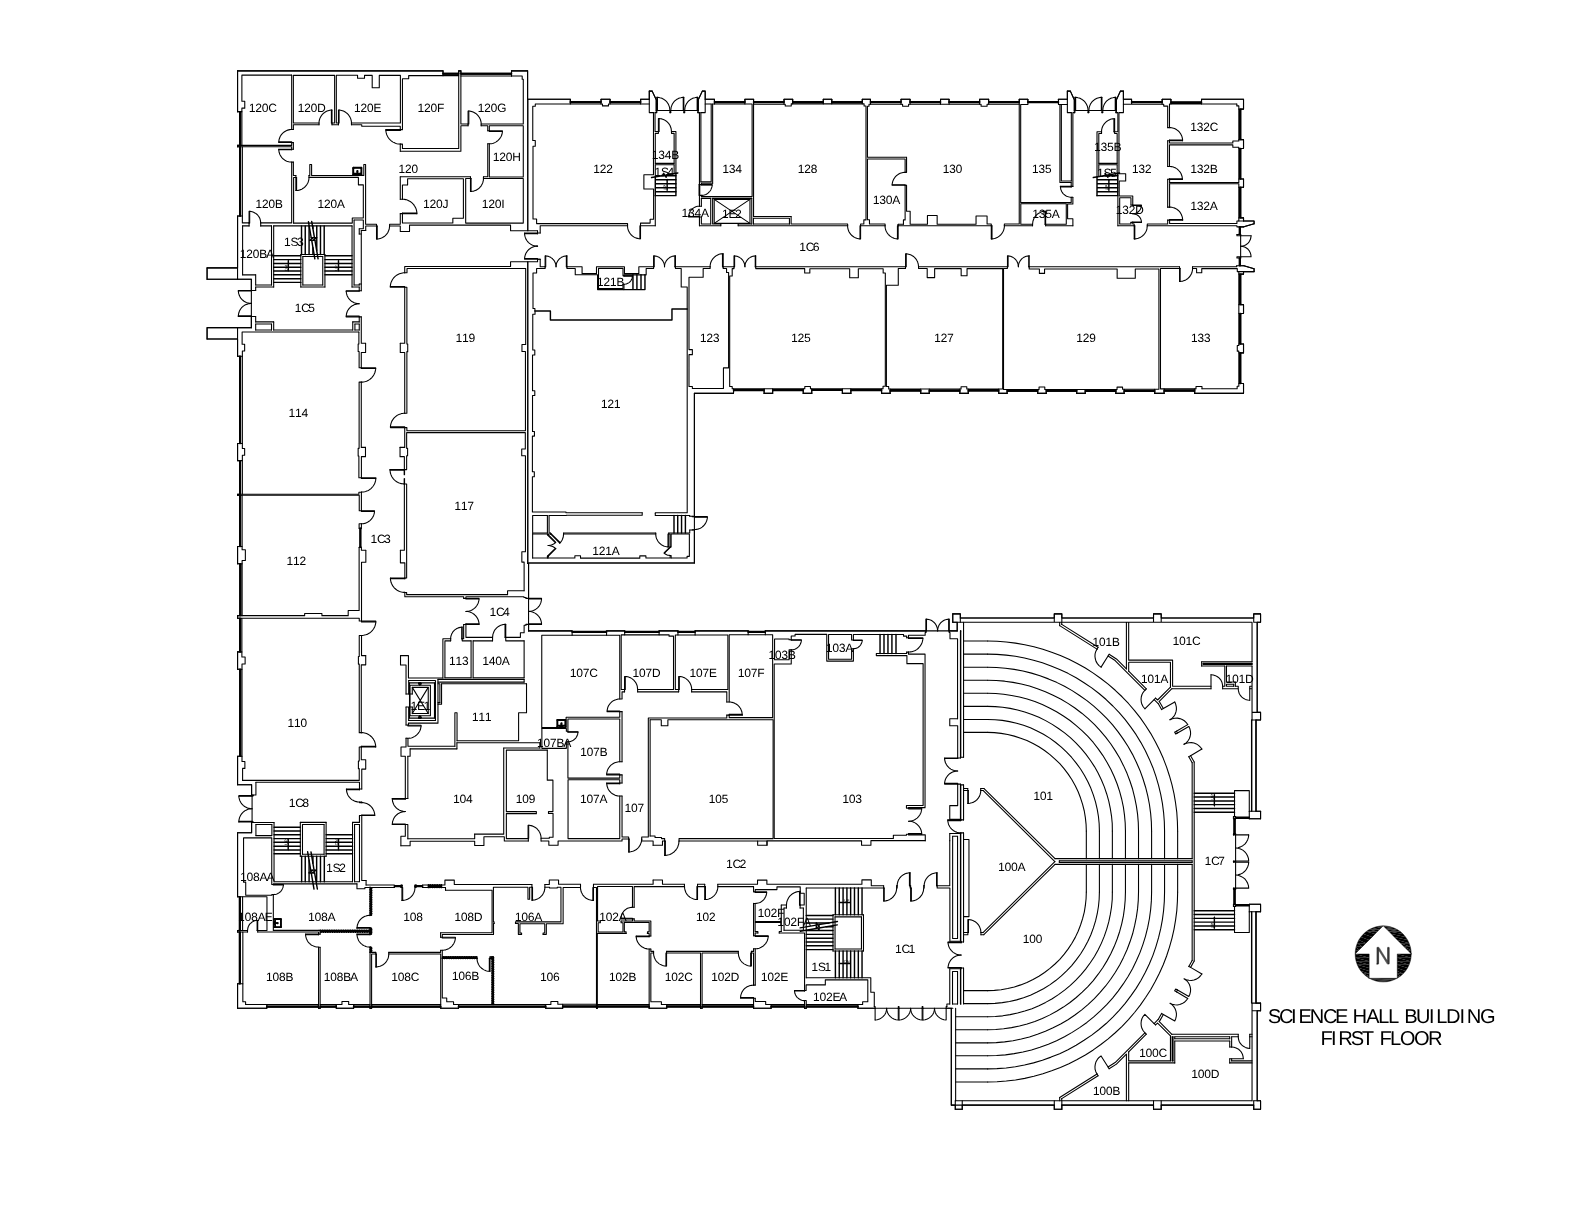
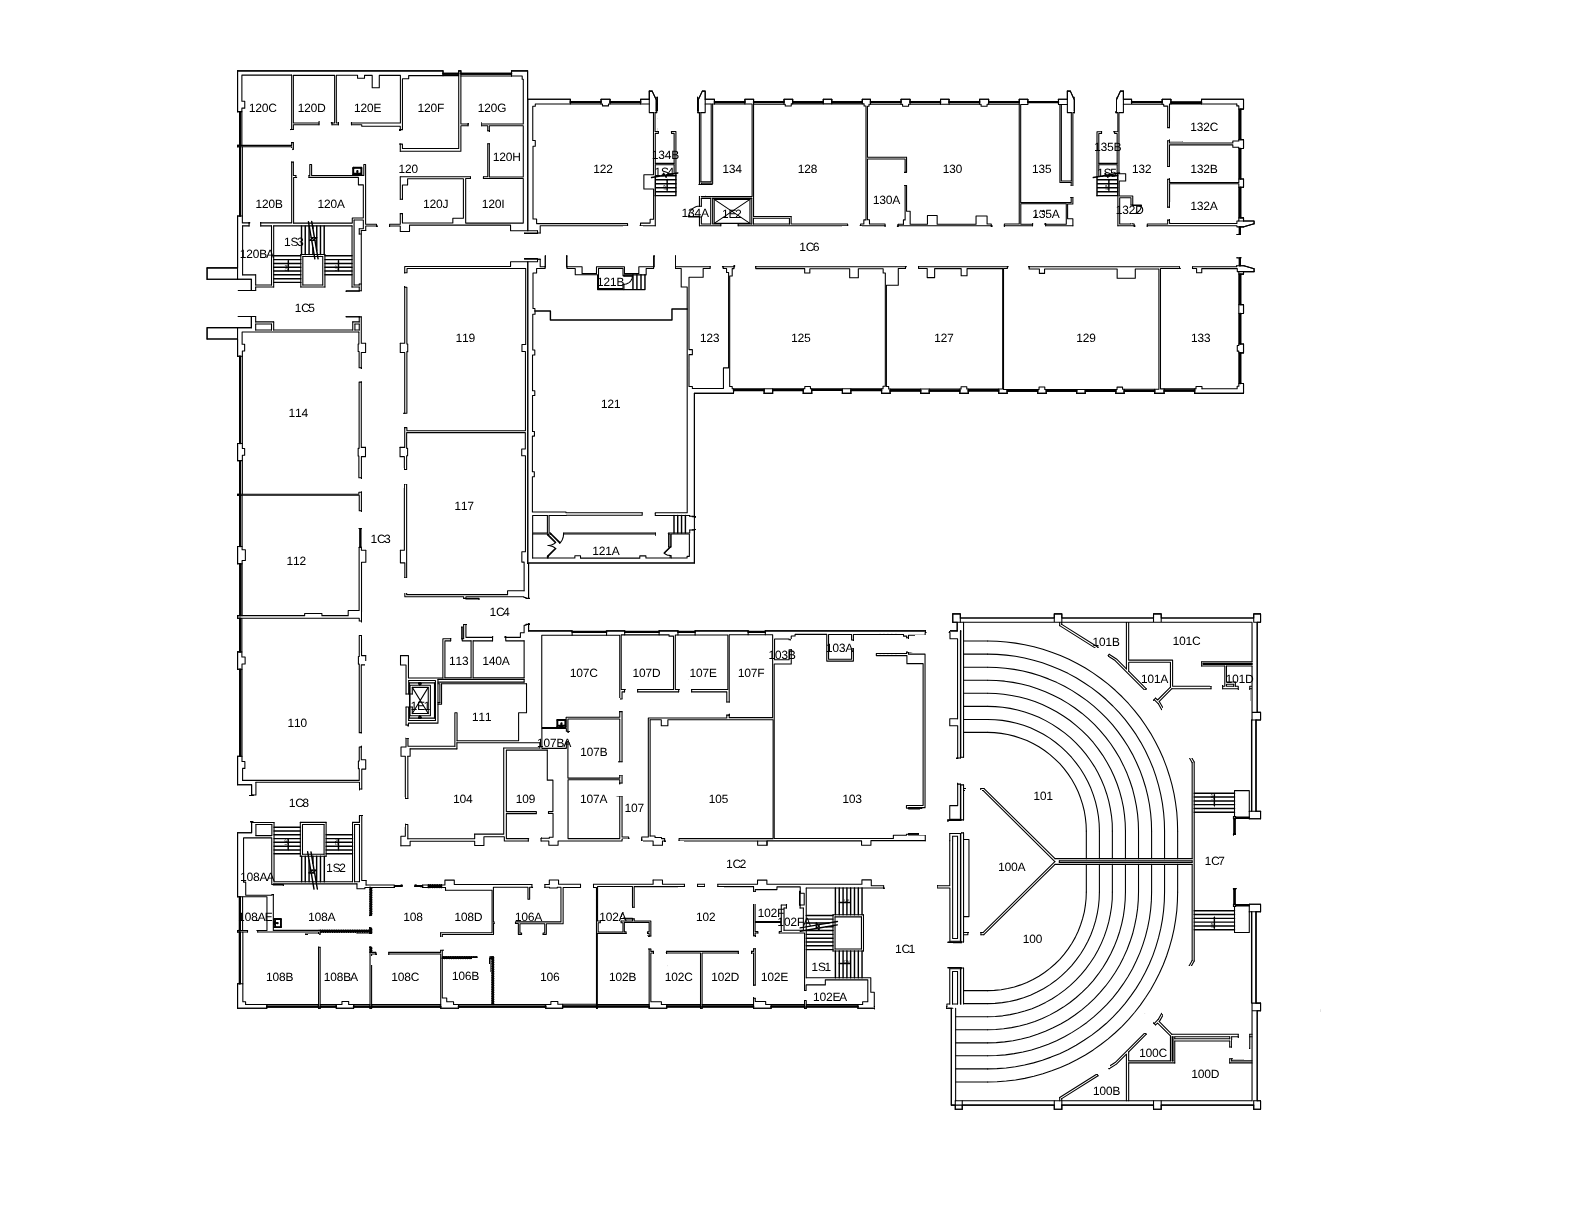
removed all the doors in sh_1 MANUALLY and now can go to ANY room in the buidlilng

diff --git a/components/Screens/MainPage/Map/Locations/BuildingLayout/SH.jsx b/components/Screens/MainPage/Map/Locations/BuildingLayout/SH.jsx
@@ -40,36 +40,36 @@ export default SH = [
                 'SH_B27': {x: 0, y: 0},
             },
             1: {
-                'SH_100': {x: 918, y: 865},
-                'SH_101': {x: 942, y: 769},
-                'SH_102': {x: 702, y: 874},
-                'SH_103': {x: 926, y: 820},
-                'SH_105': {x: 683, y: 855}, //683,855
-                'SH_106': {x: 585, y: 878}, //585,878
-                'SH_107': {x: 644, y: 855}, //644,855
-                'SH_108': {x: 410, y: 876}, //410,876
-                'SH_109': {x: 535, y: 848}, // 535,848
-                'SH_110': {x: 376, y: 728}, //376,728
-                'SH_111': {x: 396, y: 728}, //396,728
-                'SH_112': {x: 381, y: 528}, //381,528
-                'SH_113': {x: 445, y: 620}, //445,620
-                'SH_114': {x: 376, y: 390}, //376,390
-                'SH_117': {x: 395, y: 492}, //395,492
-                'SH_119': {x: 390, y: 271}, //390,271
-                'SH_120': {x: 393, y:243}, //393,243
-                // there's door frames
-                'SH_121': {x: 556, y: 248}, //556,248
-                'SH_122': {x: 620, y: 236}, //620,236
-                'SH_123': {x: 705, y: 250}, //705,250
-                'SH_125': {x: 747, y: 245}, //747,245
-                'SH_127': {x: 928, y: 257}, //928,257
-                'SH_128': {x: 841, y: 239}, //841,239
-                'SH_129': {x: 1017, y: 248}, //1017,248
-                'SH_130': {x: 1012, y: 237}, //1012,237
-                'SH_132': {x: 1154, y: 244}, //1154,244
-                'SH_133': {x: 1187, y: 254}, //1187,254
-                'SH_134': {x: 688, y: 187}, //688,187
-                'SH_135': {x: 1083, y: 195}, //1083,195
+                /* adjusted by removing all the damn doors on sh_1 */
+                'SH_100': {x: 977, y: 954}, //977,954
+                'SH_101': {x: 974, y: 775}, //974,775
+                'SH_102': {x: 700, y: 899}, //700,899
+                'SH_103': {x: 900, y: 818}, //900,818
+                'SH_105': {x: 672, y: 821}, //672,821
+                'SH_106': {x: 582, y: 902}, //582,902
+                'SH_107': {x: 635, y: 824}, //635,824
+                'SH_108': {x: 409, y: 899}, //409,899
+                'SH_109': {x: 536, y: 825}, //536,825
+                'SH_110': {x: 339, y: 688}, //339,688
+                'SH_111': {x: 424, y: 736}, //424,736
+                'SH_112': {x: 341, y: 519}, //341,519
+                'SH_113': {x: 458, y: 648}, //458,648
+                'SH_114': {x: 337, y: 414}, //337,414
+                'SH_117': {x: 430, y: 525}, //430,525
+                'SH_119': {x: 427, y: 354}, //427,354
+                'SH_120': {x: 385, y:210}, //385,210
+                //'SH_121': {x: 556, y: 248},  not allowed to go in
+                'SH_122': {x: 631, y: 207}, //631,207
+                'SH_123': {x: 715, y: 284}, //715,284
+                'SH_125': {x: 744, y: 283}, //744,283
+                'SH_127': {x: 912, y: 283}, //912,283
+                'SH_128': {x: 852, y: 207}, //852,207
+                'SH_129': {x: 1020, y: 285}, //1020,285
+                'SH_130': {x: 999, y: 211}, //999,211
+                'SH_132': {x: 1140, y: 220}, //1140,220
+                'SH_133': {x: 1188, y: 280}, //1188,280
+                'SH_134': {x: 688, y: 187}, //726,188
+                'SH_135': {x: 1059, y: 193}, //1059,193
             },
             2: {
                 'SH_202': {x: 0, y: 0},

diff --git a/components/Screens/MainPage/Map/FindRoom.jsx b/components/Screens/MainPage/Map/FindRoom.jsx
@@ -17,9 +17,9 @@ const FindRoom = ({ navigation }) => {
     const endLabel = "Science Hall"; //default
     const  roomlabel = "SH_109"; // default
 
-    const [startLocationLabel, setStartLocationLabel] = useState('');
-    const [endLocationLabel, setEndLocationLabel] = useState('');
-    const [roomLocationLabel, setRoomLocationLabel] = useState('');
+    const [startLocationLabel, setStartLocationLabel] = useState(startLabel);
+    const [endLocationLabel, setEndLocationLabel] = useState(endLabel);
+    const [roomLocationLabel, setRoomLocationLabel] = useState(roomlabel);
 
     // boolean to show this picker
     const [showRoomSelection, setShowRoomSelection] = useState(false);
